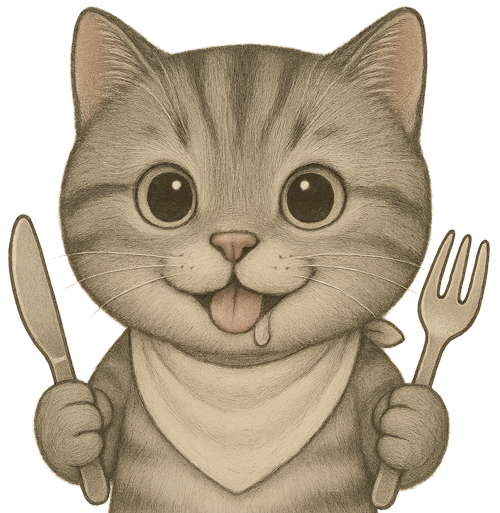
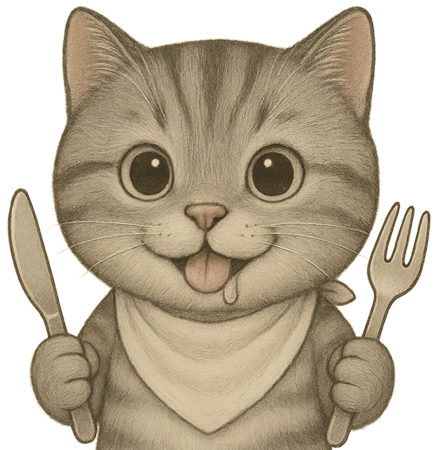
fix cat pos

diff --git a/src/constants/catPhotoConfig.ts b/src/constants/catPhotoConfig.ts
@@ -52,16 +52,7 @@ export const CAT_POSITION_RULES: Record<string, string[]> = {
     'lower_center',
     'lower_right'
   ],
-  swim_cat: [
-    'top_left',
-    'top_center',
-    'top_right',
-    'upper_left',
-    'middle_right',
-    'lower_left',
-    'lower_center',
-    'lower_right'
-  ]
+  swim_cat: ['upper_left', 'middle_right', 'lower_left', 'lower_center', 'lower_right']
 }
 
 // 獲取貓咪的隨機位置
@@ -106,16 +97,6 @@ export const applyCatRandomPosition = (catConfig: CatConfig): CatConfig => {
   }
 }
 
-// 🆕 檢查貓咪是否有隨機位置配置
-export const hasRandomPositions = (catId: string): boolean => {
-  return catId in CAT_POSITION_RULES && CAT_POSITION_RULES[catId].length > 0
-}
-
-// 🆕 獲取貓咪可用的位置列表（除錯用）
-export const getCatAvailablePositions = (catId: string): string[] => {
-  return CAT_POSITION_RULES[catId] || []
-}
-
 // 預設的貓咪配置
 export const DEFAULT_CAT_CONFIGS: CatConfig[] = [
   {
@@ -123,8 +104,8 @@ export const DEFAULT_CAT_CONFIGS: CatConfig[] = [
     name: '吃飯貓貓',
     image: eatCatImg,
     originalSize: {
-      width: 500,
-      height: 513
+      width: 439,
+      height: 450
     }
   },
   {
